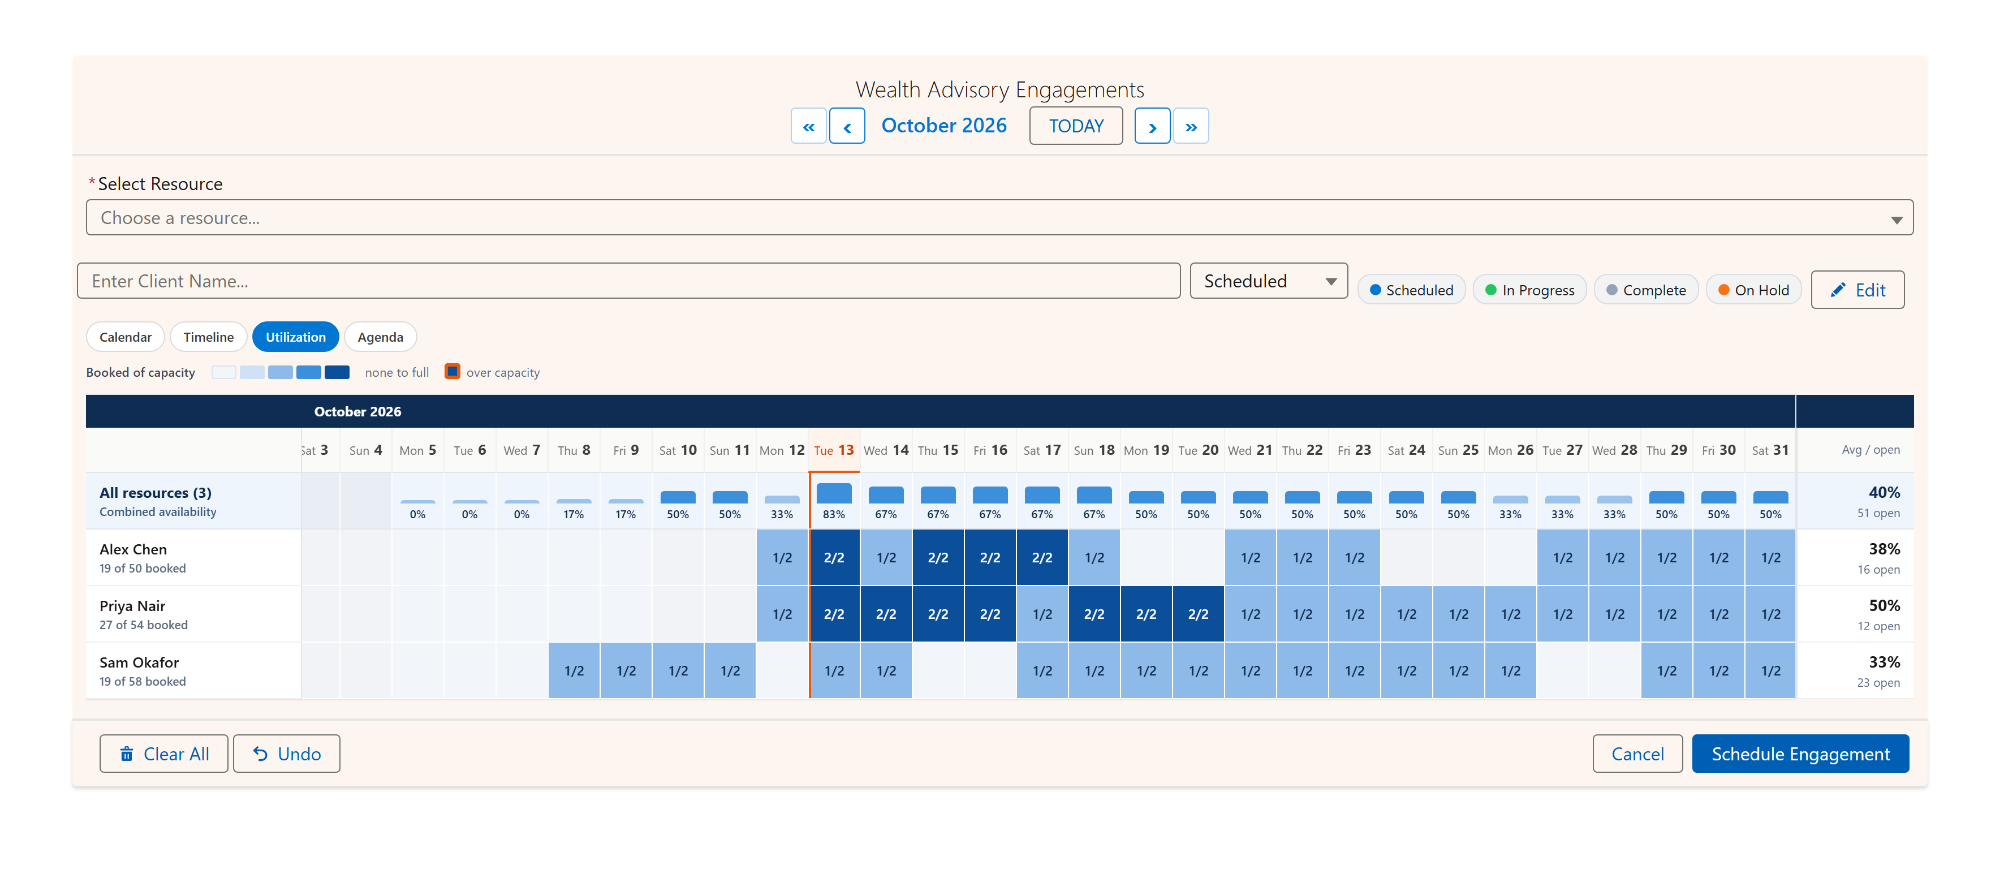
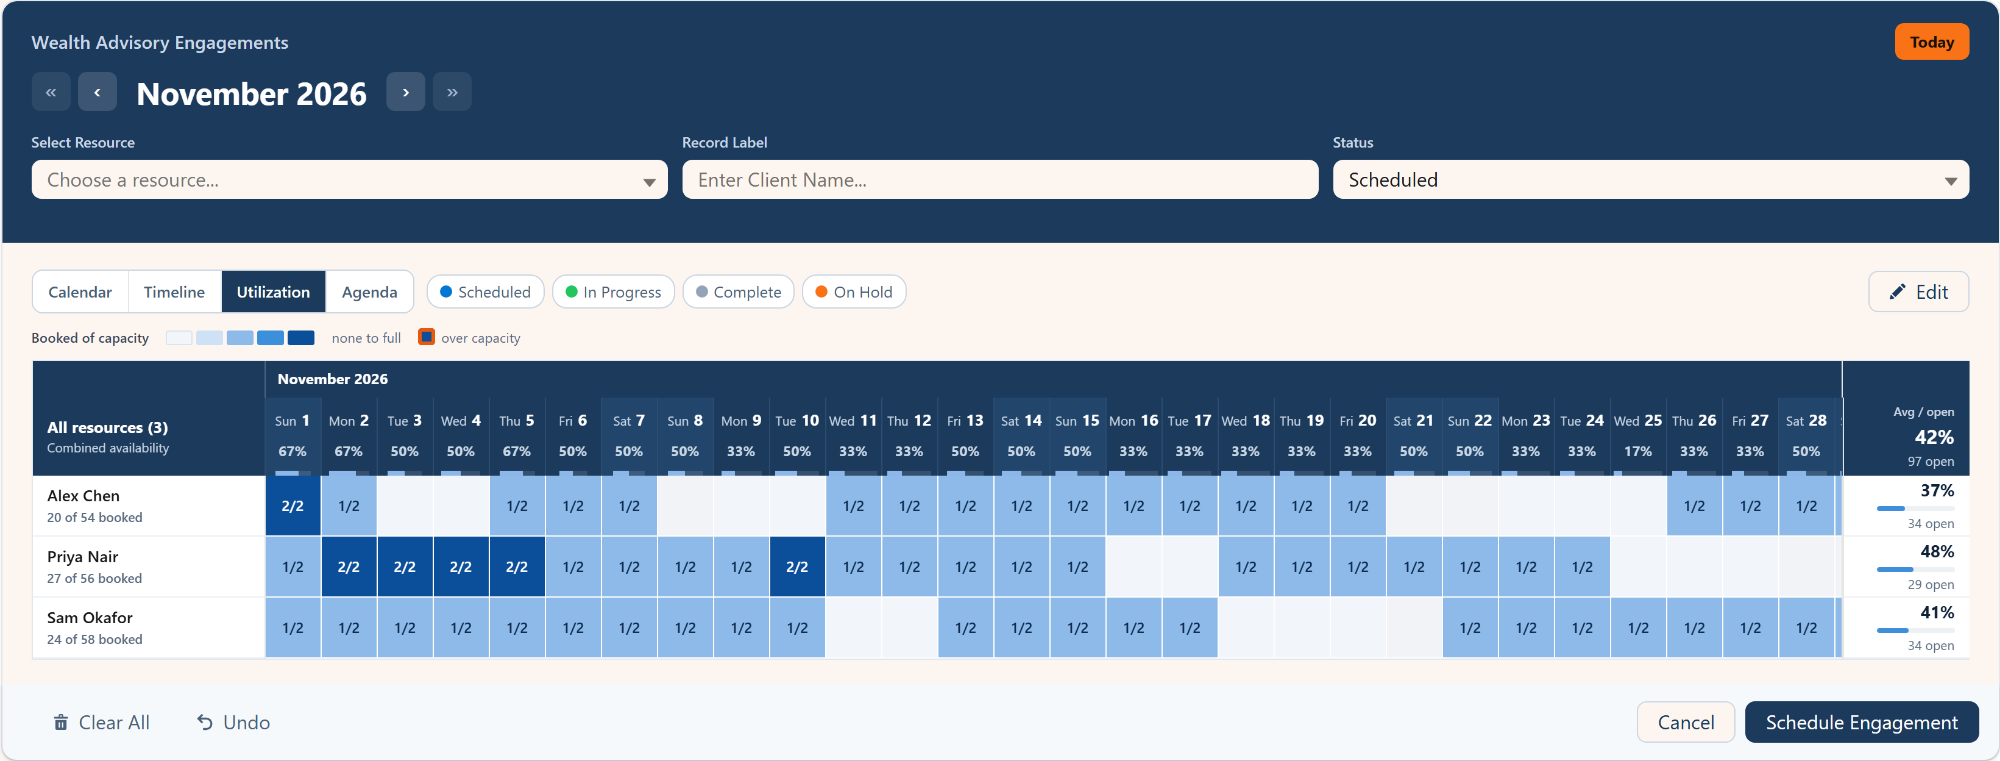
Retake the utilization project-capacity still: a full November of engagements

diff --git a/blog/salesforce-utilization-heatmap.html b/blog/salesforce-utilization-heatmap.html
@@ -192,7 +192,7 @@
                 <h2 style="margin-top:44px;">Multi-day work counts on every day it runs</h2>
                 <p>Capacity covers more than meetings. A consultant can carry two client engagements at a time; a crew can work one job site at once; a training room hosts one course for a whole week. The heatmap counts a multi-day booking on every day it covers, so an engagement that runs Monday to Friday fills all five cells. Set the capacity to the number of things a resource can carry at once and the grid shows exactly when each person is fully committed.</p>
                 <figure class="sc-shot">
-                    <img src="/images/views/salesforce-utilization-project-capacity.png" alt="Salesforce utilization heatmap of multi-day client engagements: three advisors with a capacity of two engagements each, a full month across, showing which days each advisor is fully committed" loading="lazy" width="2000" height="878" data-zoomable>
+                    <img src="/images/views/salesforce-utilization-project-capacity.png" alt="Salesforce utilization heatmap of multi-day client engagements: three advisors with a capacity of two engagements each, a full month across, showing which days each advisor is fully committed" loading="lazy" width="2000" height="761" data-zoomable>
                     <figcaption>Client engagements against a capacity of two per advisor. 2/2 means fully committed that day.</figcaption>
                 </figure>
 
